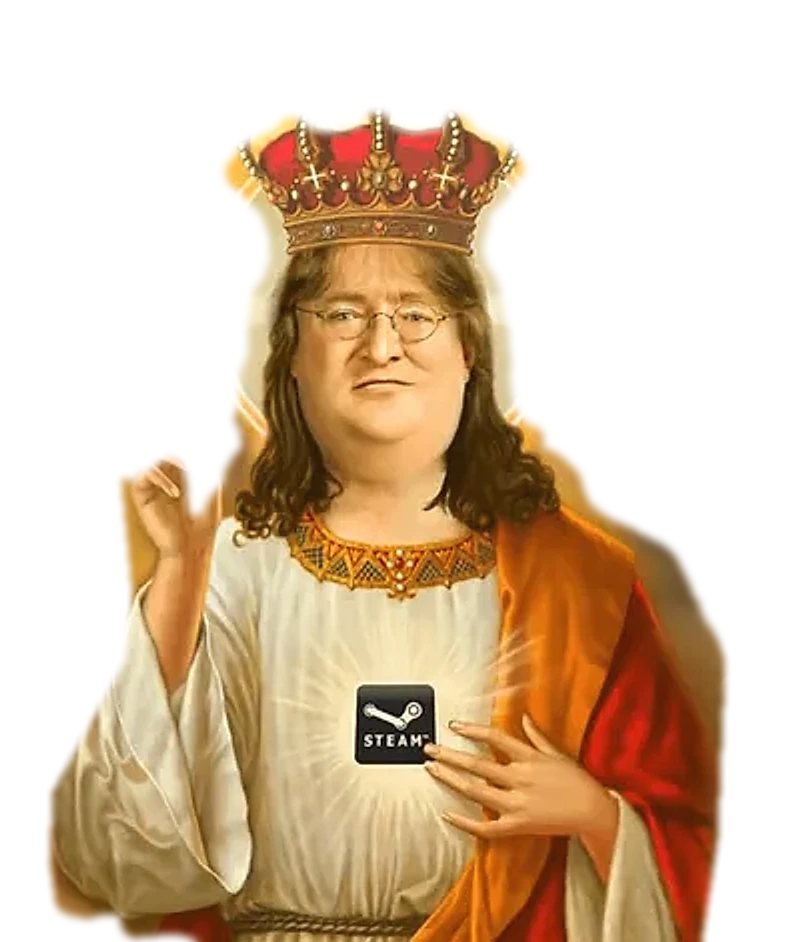
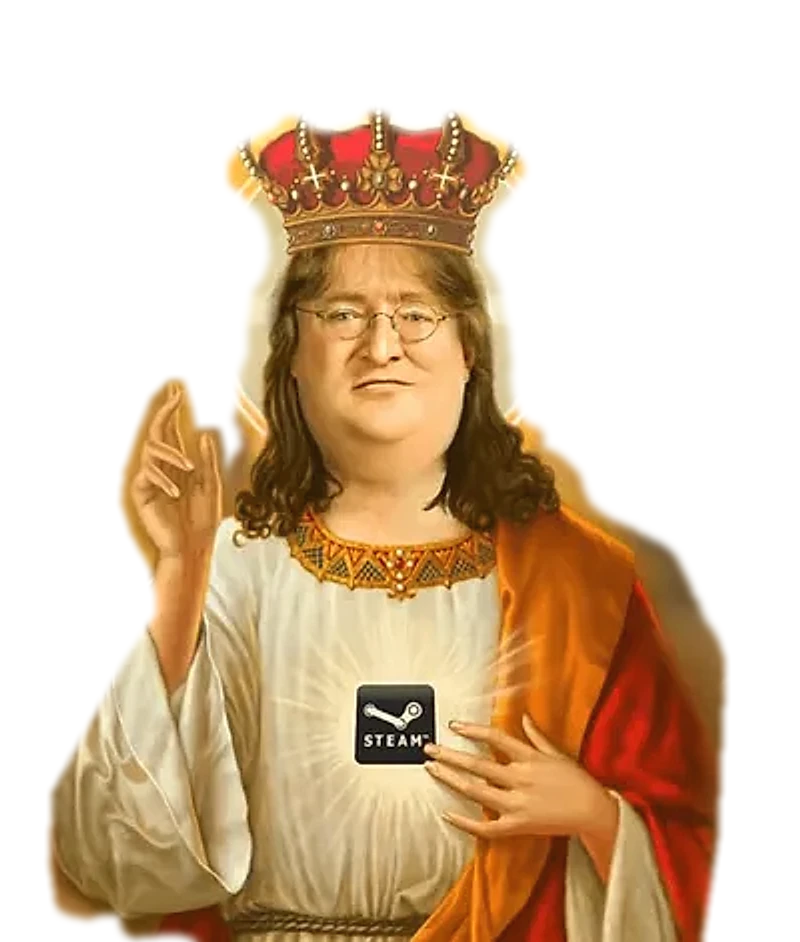
fix(valve): mano completa de Gabe y tablero de corcho distinto de la pared
- El recorte incluye la mano entera con los dedos (polígono trazado sobre la imagen)
- El tablero pasa a corcho con marco de acero, para que no parezca parte de la pared

Changed region(s): [[0.1562, 0.4002, 0.3125, 0.5541], [0.1562, 0.5541, 0.2188, 0.7081]]

diff --git a/src/features/valve/components/valve-people-stop.tsx b/src/features/valve/components/valve-people-stop.tsx
@@ -5,7 +5,7 @@ import { useFrame, useThree } from "@react-three/fiber";
 import { Suspense, useEffect, useMemo, useRef } from "react";
 import * as THREE from "three";
 import { STEAM_PATH } from "./valve-props";
-import { Steam, hash, makeWallTexture, type Vent } from "./valve-parts";
+import { Steam, hash, type Vent } from "./valve-parts";
 
 // Una persona de Valve para los paneles: nombre, cargo y, si hay foto libre, su ruta
 export type StationPerson = { name: string; role: string; photo?: string };
@@ -809,8 +809,37 @@ function ImagePortrait({ src, reduced }: { src: string; reduced: boolean }) {
 
 // Sala 02 · Personal: el «rey de Steam» (Gabe Newell) en un retablo dorado que flota ante una pared industrial con vapor, y a
 // su alrededor los expedientes del personal con sus fotos, unidos al retablo con hilo rojo
+// Corcho del tablero: color cálido con motas, distinto del gris de la pared
+function makeCorkTexture() {
+  const canvas = document.createElement("canvas");
+  canvas.width = canvas.height = 256;
+  const g = canvas.getContext("2d");
+  if (g) {
+    g.fillStyle = "#8a6038";
+    g.fillRect(0, 0, 256, 256);
+    for (let i = 0; i < 1400; i += 1) {
+      const light = hash(i + 3) > 0.5;
+      g.fillStyle = light ? "rgba(214,165,110,0.35)" : "rgba(60,35,18,0.4)";
+      g.beginPath();
+      g.arc(
+        hash(i + 11) * 256,
+        hash(i + 29) * 256,
+        0.8 + hash(i + 47) * 2.2,
+        0,
+        Math.PI * 2,
+      );
+      g.fill();
+    }
+  }
+  const texture = new THREE.CanvasTexture(canvas);
+  texture.colorSpace = THREE.SRGBColorSpace;
+  texture.wrapS = texture.wrapT = THREE.RepeatWrapping;
+  texture.repeat.set(4, 2.5);
+  return texture;
+}
+
 export function PeopleStop({ people, portraitSrc, reduced }: PeopleStopProps) {
-  const wallMap = useMemo(() => makeWallTexture(1.4, 1), []);
+  const wallMap = useMemo(() => makeCorkTexture(), []);
   const panels = useRef<THREE.Group>(null);
   const halfWidth = (portraitSrc ? IMAGE_W : DRAWN_W) / 2;
 
@@ -883,7 +912,7 @@ export function PeopleStop({ people, portraitSrc, reduced }: PeopleStopProps) {
       <group position={[0, -0.35, -1.2]}>
         <mesh raycast={() => null}>
           <planeGeometry args={[9.4, 5.9]} />
-          <meshStandardMaterial map={wallMap} roughness={0.9} metalness={0.2} />
+          <meshStandardMaterial map={wallMap} roughness={1} metalness={0} />
         </mesh>
         {[
           [0, 3.0, 9.8, 0.22],
